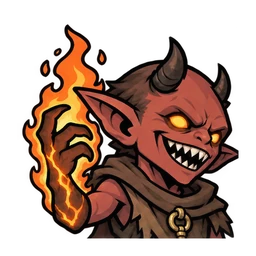
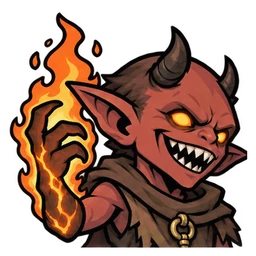
09-24 화면 · 구현 · 아트 — 건설 부지 3 × 5(네모 148 그대로) · 관리자 모드가 스테이지도 연다 · 1401 초상 아랫선 정렬
- 건설 부지 격자 3 × 5 = 15칸 · 네모 높이 148 · 줄 간격 9 · 상세 머리 그림 114 (SCREEN_DESIGN §13-1 · ADR-0355 — 0342 의 3 × 4 · 0354 의 줄 187 대체)
- 관리자 모드(Admin)가 스테이지도 전부 연다 — stageUnlocked 가 openAll 이면 참 · 클리어 기록 · 스테이지 레벨 상한 불변 (R155 · INTERFACE §2-7 · SCREEN_DESIGN §10-3 · 단정 확장)
- 몬스터 1401(화염 광신도) 초상 — 1402 와 아랫선 · 크기 정렬
- 검증: test.html FAIL 431/434 — 남은 셋(tip Alt 괄호 식 · 건설 문턱 해고 최고치 · golden 지문)은 이 커밋 전부터

diff --git a/src/ui/style.css b/src/ui/style.css
@@ -3358,10 +3358,10 @@ html[lang="en"] .ng-role { line-height: 1.2; }
 /* 부지 격자의 폭 = 왼쪽 열 − 64px — 반 폭 + 60px(네모가 반 폭 때보다 조금 넓다 · 사용자 「그림 가로를 살짝만」)과 같은 값이고 왼쪽에 붙어 남는 64px 가 상세와의 사이가 된다 */
 .cn-work > .cn-lots { width: calc(100% - 64px); justify-self: start; }
 /* 부지 — 건물 하나가 네모 하나 · **한 줄에 3개**(3열 · 폭은 열이 나눠 갖는다 · 2026-09-24 사용자 지시 · ADR-0326) · **높이는 139 고정** (2026-09-23 사용자 지시 「세로는 고정」).
-   **격자는 늘 3 × 4 = 12칸** — 빈 칸은 빈 부지(`.cn-lot.empty`)가 채우고, 높이 187 은 네 줄이 박스(한 장 기준 · 격자 세로 779)에 딱 들어가는 값이다
-   (2026-09-24 사용자 지시 「3x4로」 · ADR-0342 — ~~3 × 5 = 15칸~~ · ~~148~~ 은 영웅 띠가 위에 있던 때 · 띠를 걷으며 한 줄에 39 씩 늘었다 — ADR-0354). 건물이 12를 넘으면 줄이 늘고 격자가 스크롤한다 */
+   **격자는 늘 3 × 5 = 15칸** — 빈 칸은 빈 부지(`.cn-lot.empty`)가 채운다. **네모 높이 148 그대로 · 줄 간격 9** — 다섯 줄(148 × 5 + 9 × 4 = 776)이 격자 세로(한 장 기준 779)에 든다 ·
+   간격 10 이면 780 으로 1 이 넘쳐 스크롤이 생긴다 (2026-09-24 사용자 지시 「5칸으로 늘려서 세로 높이 기존처럼」 · ADR-0355 — ~~3 × 4 · 줄 187~~ ADR-0354). 건물이 15를 넘으면 줄이 늘고 격자가 스크롤한다 */
 .cn-lots {
-    display: grid; grid-template-columns: repeat(3, minmax(0, 1fr)); grid-auto-rows: 187px; align-content: start; gap: 10px;
+    display: grid; grid-template-columns: repeat(3, minmax(0, 1fr)); grid-auto-rows: 148px; align-content: start; gap: 9px 10px;
     overflow-y: auto; min-height: 0;
 }
 .cn-lot {
@@ -3405,9 +3405,9 @@ html[lang="en"] .ng-role { line-height: 1.2; }
     background: var(--bg-secondary); border: 1px solid var(--border-primary);
 }
 /* 머리 — 그림(부지와 같은 그림 · 3:2) · 이름 · 상태 한 줄(미건설 · n랭크 · 최대 랭크) · 눈금. 안 지었으면 그림이 어둡고 테두리가 점선.
-   **그림 높이 154 = 아래 두 소제목의 글자 윗선이 부지 둘째 줄 네모의 윗변(187 + 10)에 서는 값** (2026-09-24 사용자 지시 · 한 장 실측 · ~~96 × 64~~ · ~~106~~ 은 줄 139 · ~~104~~ 는 줄 137 · ~~115~~ 는 줄 148 때 — 줄이 늘면 같은 만큼 는다).
+   **그림 높이 114 = 아래 두 소제목의 글자 윗선이 부지 둘째 줄 네모의 윗변(148 + 9)에 서는 값** (2026-09-24 사용자 지시 · 한 장 실측 · ~~96 × 64~~ · ~~106~~ 은 줄 139 · ~~104~~ 는 줄 137 · ~~115~~ 는 줄 간격 10 · ~~154~~ 는 줄 187 때 — 둘째 줄 윗변이 움직인 만큼 같이 움직인다).
    머리 높이는 그림이 정한다 — 부지 네모 높이 · `.cn-side` 위 여백 · `.cn-head` 아래 여백 · `.sub-h` 위 여백이 바뀌면 다시 잰다 */
-.cn-head { flex: none; display: flex; align-items: center; gap: 14px; margin-bottom: 12px; --cn-thumb-h: 154px; }
+.cn-head { flex: none; display: flex; align-items: center; gap: 14px; margin-bottom: 12px; --cn-thumb-h: 114px; }
 .cn-thumb {
     flex: none; width: calc(var(--cn-thumb-h) * 1.5); height: var(--cn-thumb-h); display: flex; align-items: center; justify-content: center;
     background: var(--bg-tertiary) center 40% / cover no-repeat; border: 1px solid var(--border-secondary);

diff --git a/src/game_logic/state.js b/src/game_logic/state.js
@@ -94,7 +94,7 @@ export const SAVE_VERSION = 38;
  *   construction — 건설 시스템(`construction.js` · 표 넷을 든다 · INTERFACE §2-14 · R137)
  *   gamble — 도박장 슬롯(`gamble.js` · 표 넷을 든다 · 한 판을 굴린다 · INTERFACE §2-15 · R149)
  *   commission — 의뢰(`commission.js` · 표 넷을 든다 · 카드 한 장을 굴리고 처치 · 드롭을 대조한다 · INTERFACE §2-16 · R153)
- *   openAll — `() → bool` 선택 · **개발 장치**(관리자 모드) — 켜져 있으면 「무엇이 열렸나」가 모든 건물을 최대 랭크로 친다(`openRanks` · INTERFACE §2-7)
+ *   openAll — `() → bool` 선택 · **개발 장치**(관리자 모드) — 켜져 있으면 「무엇이 열렸나」가 모든 건물을 최대 랭크로 친다(`openRanks`) · 스테이지도 전부 열린다(`stageUnlocked` · INTERFACE §2-7)
  */
 export function createGameSystem(deps) {
     const { hero: H, item: I, battle: BT, skill: SK, tactic: TC, construction: CN, gamble: GB, commission: CM, balance: B } = deps;
@@ -197,7 +197,8 @@ export function createGameSystem(deps) {
      */
     /**
      * 「무엇이 열렸나」가 세는 랭크 — 세이브의 `buildings` · **`deps.openAll()` 이 켜져 있으면 모든 건물의 최대 랭크** [2026-09-24 · 개발 장치 — 관리자 모드 · INTERFACE §2-7].
-     *   세는 자리는 셋이다(`limitsOf` · `hasFeature` · `constructionState.tabs`). 짓기 쪽(건설 탭의 랭크 · 다음 랭크 · `construct`)은 안 거친다 — 실제 랭크를 본다
+     *   세는 자리는 셋이다(`limitsOf` · `hasFeature` · `constructionState.tabs`). 짓기 쪽(건설 탭의 랭크 · 다음 랭크 · `construct`)은 안 거친다 — 실제 랭크를 본다.
+     *   스테이지는 이 랭크가 아니라 `stageUnlocked` 가 `openAll()` 을 직접 본다(장 잠금 · 직전 클리어를 같이 건너뛴다)
      */
     const openAll = deps.openAll ?? (() => false);
     const maxRanks = Object.fromEntries(CN.list.map(b => [b.id, b.maxRank]));
@@ -1157,9 +1158,11 @@ export function createGameSystem(deps) {
     /** 그 장이 원정 랭크로 열렸나 — 보스를 깨도 다음 장은 저절로 안 열린다 (2026-09-24 · R152 · construction_draft §2) */
     const chapterOpen = (state, chapter) => chapter <= limitsOf(state).chapters;
 
-    /** 해금 = **그 장이 열렸고**(`chapterOpen`) 첫 스테이지이거나 직전 스테이지(순서 기준)를 클리어했다 */
+    /** 해금 = **그 장이 열렸고**(`chapterOpen`) 첫 스테이지이거나 직전 스테이지(순서 기준)를 클리어했다 ·
+     *  관리자 모드면 표의 모든 스테이지가 열린 척한다(클리어 기록은 안 쓴다 · 2026-09-24 · R155 · INTERFACE §2-7) */
     function stageUnlocked(state, stageId) {
         const i = deps.stageOrder.indexOf(stageId);
+        if (i >= 0 && openAll()) return true;
         if (i < 0 || !chapterOpen(state, deps.stages[stageId]?.chapter)) return false;
         return i === 0 || state.progress.cleared.includes(deps.stageOrder[i - 1]);
     }

diff --git a/src/ui/devadmin.js b/src/ui/devadmin.js
@@ -1,11 +1,12 @@
 /**
  * devadmin.js — 관리자 모드 `Admin` (**개발 장치** · 2026-09-24 사용자 지시 · SCREEN_DESIGN §10-3)
  *
- * 상단바 언어 버튼 오른쪽의 `Admin` — 켜 두면 건물 때문에 막힌 것(탭 · 기능 · 상한)이 전부 **열린 척한다.** **게임 기능이 아니다.**
+ * 상단바 언어 버튼 오른쪽의 `Admin` — 켜 두면 건물 때문에 막힌 것(탭 · 기능 · 상한)과 **스테이지가 전부 열린 척한다.** **게임 기능이 아니다.**
  *
  * 어떻게 동작하나 — 판정은 `game_logic` 이 한다. `data.js` 가 조립 때 `adminOn` 을 `createGameSystem({openAll})` 로 넘기고,
- *   「무엇이 열렸나」를 세는 셋(`limitsOf` · `hasFeature` · `constructionState.tabs`)이 이 값이 참이면 모든 건물을 최대 랭크로 친다(INTERFACE §2-7).
- *   **건물은 안 짓는다** — 세이브의 건물 랭크는 그대로라 끄면 원래 진행으로 돌아간다. 누르면 앱이 전체를 다시 그린다
+ *   「무엇이 열렸나」를 세는 셋(`limitsOf` · `hasFeature` · `constructionState.tabs`)이 이 값이 참이면 모든 건물을 최대 랭크로 친다 ·
+ *   `stageUnlocked` 는 모든 스테이지에 참이다(INTERFACE §2-7).
+ *   **건물은 안 짓고 클리어 기록도 안 쓴다** — 세이브는 그대로라 끄면 원래 진행으로 돌아간다. 누르면 앱이 전체를 다시 그린다
  *   (새로고침이 아니다 — 새로고침은 도는 원정을 끊는다). 켠 상태는 이 브라우저에만 남는다(localStorage).
  *
  * ⚠ 걷어내려면 이 파일과 `app.js` 의 import · 호출 두 줄, `data.js` 의 import · 주입 두 줄을 지운다.
@@ -27,7 +28,7 @@ export function mountAdmin(container, rerender) {
     const b = document.createElement('button');
     b.className = `btn sm da-b${on ? ' on' : ''}`;
     b.textContent = 'Admin';
-    b.title = 'Dev — every building counts as max rank (save unchanged)';
+    b.title = 'Dev — every building counts as max rank · every stage open (save unchanged)';
     b.onclick = () => { on = !on; write(on); rerender(); };
     container.appendChild(b);
 }

diff --git a/docs/client/INTERFACE.md b/docs/client/INTERFACE.md
@@ -493,7 +493,7 @@ strike(rng, a, d):
 
 `export const SAVE_VERSION = 38`  [v38 = **다부대** — `run`(단수) → `runs`(부대마다) · `reports[].preset` · `notice.runs` · 한 영웅은 한 편성에만 · 2026-09-23] **[v38 에서 또 끊었다 — 그 전 세이브는 열지 않는다 · §4 · 2026-09-23]** · ~~v37 = 건설(`buildings` · `research` · `progress.peakTotal` · R137 · 2026-09-22)~~
 
-`createGameSystem(deps)` — `deps`: `hero, item, battle, skill, tactic, construction(§2-14 · R137), gamble(§2-15 · R149), commission(§2-16 · R153), balance, equipSlots [{id, part}](착용 위치 8), stages(byId), stageOrder [id], monsters(byId), codex {levels:[cards_to_next], bonus:[%], statByNum:{stage_num: statKey}}`, **`sins [죄종 id]`** · **`searchStories`**(= `search_story.csv` 파싱 행) [신설 2026-09-09 — 수색]. **`makeRecipes`** `{part: {ore, timber, dust}}`(= `make_recipe.csv`) · **`mineNodes`** · **`logNodes`**(= `mine_node.csv` · `log_node.csv` 를 tier 순으로 편 행 `{id, tier, yieldId, …}`) [신설 2026-09-15 — 제작 · R96]. 레시피는 생성 때 검증한다 — **광석 · 목재 · 가루가 모두 1 이상**이 아니거나 없는 부위면 throw (보완재 · 원정 쪽 입력 — item_design §5-1 · §7-1). **`potions`** `[{id, kind, tier, ko, en, heal, craftGold, startOwned}]`(= `potion.csv` 행 순서 · ~~`craftable`~~ 2026-09-22 삭제 — 단계는 제련소 랭크가 연다 · R137) [신설 2026-09-15 — 물약 · R103]. 이 표도 생성 때 검증한다 — `id` 유일 · `kind` 는 `heal` 하나(모르는 종류는 멈춘다) · 같은 종류 안에서 `tier` 는 1 부터 연속 · `heal` 은 단계마다 커진다 · `craftGold ≥ 0` · **`startOwned` = 시작 개수**(0 이상 정수 — 2026-09-21 · R124 · 전엔 0/1 플래그) · 이름 ko/en 이 비지 않는다 — 어기면 throw. **`balance.party_preset_count`**(편성 수)는 1 이상 정수여야 한다 — 아니면 throw [2026-09-21 · R122]. **`openAll`** `() → bool`(선택 · 없으면 늘 꺼짐) [신설 2026-09-24 · **개발 장치** — SCREEN_DESIGN §10-3 관리자 모드] — 켜져 있으면 「무엇이 열렸나」를 세는 셋(`limitsOf` · `hasFeature` · `constructionState.tabs`)이 **모든 건물을 최대 랭크로 친다**. 세이브의 `buildings` 는 안 바뀌고, 짓기 쪽(`constructionState` 의 랭크 · `next` · `ranks` · `construct`)은 **실제 랭크**를 본다. 켜고 끄는 사이에 상태를 맞추지 않는다 — 칸 수를 읽는 자리가 읽을 때 상한에 맞춘다(`padSlots` · 불러오기).
+`createGameSystem(deps)` — `deps`: `hero, item, battle, skill, tactic, construction(§2-14 · R137), gamble(§2-15 · R149), commission(§2-16 · R153), balance, equipSlots [{id, part}](착용 위치 8), stages(byId), stageOrder [id], monsters(byId), codex {levels:[cards_to_next], bonus:[%], statByNum:{stage_num: statKey}}`, **`sins [죄종 id]`** · **`searchStories`**(= `search_story.csv` 파싱 행) [신설 2026-09-09 — 수색]. **`makeRecipes`** `{part: {ore, timber, dust}}`(= `make_recipe.csv`) · **`mineNodes`** · **`logNodes`**(= `mine_node.csv` · `log_node.csv` 를 tier 순으로 편 행 `{id, tier, yieldId, …}`) [신설 2026-09-15 — 제작 · R96]. 레시피는 생성 때 검증한다 — **광석 · 목재 · 가루가 모두 1 이상**이 아니거나 없는 부위면 throw (보완재 · 원정 쪽 입력 — item_design §5-1 · §7-1). **`potions`** `[{id, kind, tier, ko, en, heal, craftGold, startOwned}]`(= `potion.csv` 행 순서 · ~~`craftable`~~ 2026-09-22 삭제 — 단계는 제련소 랭크가 연다 · R137) [신설 2026-09-15 — 물약 · R103]. 이 표도 생성 때 검증한다 — `id` 유일 · `kind` 는 `heal` 하나(모르는 종류는 멈춘다) · 같은 종류 안에서 `tier` 는 1 부터 연속 · `heal` 은 단계마다 커진다 · `craftGold ≥ 0` · **`startOwned` = 시작 개수**(0 이상 정수 — 2026-09-21 · R124 · 전엔 0/1 플래그) · 이름 ko/en 이 비지 않는다 — 어기면 throw. **`balance.party_preset_count`**(편성 수)는 1 이상 정수여야 한다 — 아니면 throw [2026-09-21 · R122]. **`openAll`** `() → bool`(선택 · 없으면 늘 꺼짐) [신설 2026-09-24 · **개발 장치** — SCREEN_DESIGN §10-3 관리자 모드] — 켜져 있으면 「무엇이 열렸나」를 세는 셋(`limitsOf` · `hasFeature` · `constructionState.tabs`)이 **모든 건물을 최대 랭크로 친다** · **`stageUnlocked` 는 표의 모든 스테이지에 참**이다(장 잠금 · 직전 클리어를 안 따진다 — 그래서 `frontierChapter` 가 마지막 장이 된다 · 2026-09-24). 세이브의 `buildings` · `progress.cleared` 는 안 바뀌고(`stageLevelState` 의 상한은 클리어 기록 그대로), 짓기 쪽(`constructionState` 의 랭크 · `next` · `ranks` · `construct`)은 **실제 랭크**를 본다. 켜고 끄는 사이에 상태를 맞추지 않는다 — 칸 수를 읽는 자리가 읽을 때 상한에 맞춘다(`padSlots` · 불러오기).
 **만남 표도 같은 자리에서 검증한다** [신설 2026-09-09] — `searchMeetings`(`search_meeting.csv`) · `searchAnswers`(`search_answer.csv`)도 주입이고, `meeting_id`·`answer_id` 유일 · `sin`/`hit_sin` 이 죄종 · `need_sin` 이 `-` 또는 죄종 · 답이 가리키는 만남이 실재 · 문구 비지 않음 · **만남마다 공통(`-`) 답이 최소 하나**(없으면 그 죄종을 안 보낸 판에서 고를 것이 0개가 된다)를 어기면 throw.
 **컬럼 둘이 서로 다른 질문에 답한다** — `need_sin` = **누가 갔나**(그 답이 **보이는가**) · `hit_sin` = **누굴 만났나**(그 답이 **먹히는가**). 규칙은 이 둘이 전부다.
 
@@ -540,7 +540,7 @@ strike(rng, a, d):
 | **`swapPotionSlot(state, a, b)`** | `→ {ok}` / `{ok:false, err}` | **고른 편성의 물약 칸 둘을 맞바꾼다** [신설 2026-09-21 · R124] — **앞 칸부터 마시므로 순서가 결정이다**(빈 칸과도 바꾼다). err: `missing`(없는 칸). 같은 칸이면 `{ok:true}` · rng 0 |
 | ~~`returnToTown(state)`~~ | — | **2026-09-08 삭제** (R54). 「출정 아웃」이 없어져 **귀환이 회복할 것이 없다** — 회복은 런이 끝나는 순간 자동이고 상태에 남는 것이 없다. 호출하던 세 자리(반복 미이어짐 · 전멸 · `closeRun`)에서 함께 걷었다 |
 | ~~`activeParty(state, stageId)`~~ | — | **2026-09-08 삭제** (R54). 아웃이 런을 넘지 않으므로 **언제나 `state.party` 전원**이 나간다 — 뺄 명단이 없다 |
-| `stageUnlocked(state, stageId)` | `→ bool` | **그 장이 열렸고**(`chapterOpen`) 첫 스테이지이거나 직전 스테이지(순서 기준)를 클리어했다 — 보스를 깨도 다음 장은 원정 랭크가 열어야 들어간다 [2026-09-24 · R152 · construction_draft §2] |
+| `stageUnlocked(state, stageId)` | `→ bool` | **그 장이 열렸고**(`chapterOpen`) 첫 스테이지이거나 직전 스테이지(순서 기준)를 클리어했다 — 보스를 깨도 다음 장은 원정 랭크가 열어야 들어간다 [2026-09-24 · R152 · construction_draft §2] · **`openAll` 이 켜져 있으면 `stageOrder` 의 모든 스테이지에 참**(개발 장치 · 2026-09-24 · R155) |
 | **`chapterOpen(state, chapter)`** | `→ bool` | **그 장이 원정 랭크로 열렸나** — `chapter ≤ limitsOf(state).chapters` [신설 2026-09-24 · R152]. 잠긴 스테이지 행이 「원정 n랭크 필요」(`needOf('chapters', n)`)와 「이전 스테이지 클리어 필요」 중 무엇을 말할지 가른다 · rng 0 |
 | `stageLevelState(state, stageId)` | `→ {base, max, level}` / `null` | **스테이지 레벨** [신설 2026-09-14 · R87 · base_expedition_design §1-4] — **판정을 여기서 다 낸다.** `base` = `stage.csv:dlvl` · `max` = **클리어한 스테이지의 기본 레벨 중 최고**(키가 없다 — `progress.cleared` 에서 파생 · 아무것도 안 깼거나 그 스테이지가 더 높으면 `base`) · `level` = `base + progress.levelUp[stageId]` 를 `[base, max]` 로 자른 값. 올린 스테이지는 상한 이하라 **그걸 깨도 상한이 안 오른다** — 그래서 기본 레벨만 봐도 「클리어한 최고 레벨」이다. **처음부터 열려 있다**(2026-09-24 · R152 — 사용자 09-14 로 되돌림 · ~~원정 건물 랭크가 연다 — `open` 칸 · R137~~). 없는 스테이지면 `null` · rng 를 안 쓴다 |
 | `setStageLevel(state, stageId, level)` | `→ {ok, level}` / `{ok:false, err}` | err: `missing`(없는 스테이지) · ~~`unbuilt`~~(2026-09-24 · R152 — 처음부터 열림) · `range`(정수가 아니거나 `[base, max]` 밖). **올린 양을 적는다** — 기본 레벨로 돌리면 기록을 지운다(안 올린 스테이지는 적지 않는다). 비용 없음 · 되돌리기 자유 · rng 를 안 쓴다. 신설 2026-09-14 · R87 |

diff --git a/docs/client/adr/README.md b/docs/client/adr/README.md
@@ -67,13 +67,14 @@
 
 ## 인덱스
 
-**349건** — 살아 있는 결정 344 · 대체된 것 5. 번호는 **결정이 선 날 순**이다.
+**350건** — 살아 있는 결정 345 · 대체된 것 5. 번호는 **결정이 선 날 순**이다.
 
 > 이 표는 **ADR 파일들에서 생성한 파생 뷰**다 — 손으로 고치지 않는다. ADR 을 쓰거나 「대체됨」을 채운 뒤 `python docs/client/adr/_build_index.py` 를 돌린다.
 
 | 번호 | 제목 | 상태 | 화면 | 날짜 | 대체 관계 |
 |---|---|---|---|---|---|
-| 0354 | [건설에서 영웅을 뺀다 · 영웅 띠와 건설 인력 칸을 걷는다](0354-건설에서-영웅을-뺀다-영웅-띠와-건설-인력-칸을-걷는다.md) | 확정 | §13-1 | 2026-09-24 | [ADR-0342](0342-건설-탭-위에-영웅-띠가-서고-상세-위에-건설-인력-칸이-선다-부지는-3x4다.md) 의 **영웅 띠 · 띠 클릭 · 반투명**(부지 3 × 4 는 산다) · [ADR-0343](0343-건설-인력은-고른-건물-그림-오른쪽-한-칸이다-건물마다-한-명.md) 전부 · [ADR-0346](0346-건설-인력-칸은-제목-배지-가림선-없이-칸만-선다.md) 전부 를 대체 |
+| 0355 | [건설 부지는 3 × 5 다 · 네모 높이는 148 그대로다](0355-건설-부지는-3x5-다-네모-높이는-148-그대로다.md) | 확정 | §13-1 | 2026-09-24 | [ADR-0342](0342-건설-탭-위에-영웅-띠가-서고-상세-위에-건설-인력-칸이-선다-부지는-3x4다.md) 의 **부지 3 × 4** · [ADR-0354](0354-건설에서-영웅을-뺀다-영웅-띠와-건설-인력-칸을-걷는다.md) 의 **「걷힌 띠의 세로는 네 줄이 나눠 가진다」**(줄 187 · 그림 154) 를 대체 |
+| 0354 | [건설에서 영웅을 뺀다 · 영웅 띠와 건설 인력 칸을 걷는다](0354-건설에서-영웅을-뺀다-영웅-띠와-건설-인력-칸을-걷는다.md) | 확정 | §13-1 | 2026-09-24 | [ADR-0342](0342-건설-탭-위에-영웅-띠가-서고-상세-위에-건설-인력-칸이-선다-부지는-3x4다.md) 의 **영웅 띠 · 띠 클릭 · 반투명**(부지 3 × 4 는 산다) · [ADR-0343](0343-건설-인력은-고른-건물-그림-오른쪽-한-칸이다-건물마다-한-명.md) 전부 · [ADR-0346](0346-건설-인력-칸은-제목-배지-가림선-없이-칸만-선다.md) 전부 를 대체 · **[ADR-0355](0355-건설-부지는-3x5-다-네모-높이는-148-그대로다.md) — 걷힌 세로를 네 줄이 나눠 갖는 것(줄 187 · 그림 154)만 · 영웅을 뺀 것은 산다 (2026-09-24) 가 대체** |
 | 0353 | [원정 세그먼트는 모든 탭에 선다 · crumb 은 가장 긴 탭 이름만큼 자리를 잡는다](0353-원정-세그먼트는-모든-탭에-선다-crumb-은-가장-긴-탭-이름만큼-자리를-잡는다.md) | 확정 | §2 | 2026-09-24 | [ADR-0094](0094-원정-세그먼트는-상단바에-선다.md) 의 「상단바 탭 세그먼트 자리는 원정만 쓰고 다른 탭에서는 자리를 안 잡는다」 — 자리(crumb 바로 오른쪽)와 내용은 산다 를 대체 |
 | 0352 | [의뢰 카드는 받으면 제자리에서 진행 중이 되고 · 수령 · 포기가 그 자리를 새로 굴린다](0352-의뢰-카드는-받으면-제자리에서-진행-중이-되고-수령-포기가-그-자리를-새로-굴린다.md) | 확정 | §14 | 2026-09-24 | — |
 | 0351 | [건설 상세의 더하기는 「대상 +n」 이다 · 「증가」 를 안 붙인다](0351-건설-상세의-더하기는-대상-n-이다-증가를-안-붙인다.md) | 확정 | §13-1 | 2026-09-24 | [ADR-0329](0329-건설-상세의-더하기는-대상-n-증가다.md) 의 **「증가」 꼬리**만 — 더하기가 문장이 아니라 한 토막이라는 것 · 대상마다 한 키는 산다 를 대체 |
@@ -85,7 +86,7 @@
 | 0345 | [건설 탭의 진척 줄을 걷는다](0345-건설-탭의-진척-줄을-걷는다.md) | 확정 | §13-1 | 2026-09-24 | — *(ADR 이 아니던 규격 — §13-1 의 「진척 — 지은 랭크 n / 전체」 행)* 를 대체 |
 | 0344 | [브라우저 확대/축소 입력은 게임이 삼킨다 · Ctrl + 0 은 둔다](0344-브라우저-확대-축소-입력은-게임이-삼킨다-Ctrl-0-은-둔다.md) | 확정 | §2 | 2026-09-24 | — *([ADR-0087](0087-화면은-1600x800-한-장이다.md) · [ADR-0153](0153-한-장은-보이는-창에-맞춘다-브라우저-바가-덮은-자리를-뺀다.md) 을 뒤집지 않는다 — 한 장이 창을 채우는 방식은 그대로다)* 를 대체 |
 | 0343 | [건설 인력은 고른 건물 그림 오른쪽 한 칸이다 · 건물마다 한 명](0343-건설-인력은-고른-건물-그림-오른쪽-한-칸이다-건물마다-한-명.md) | 확정 | §13-1 | 2026-09-24 | [ADR-0342](0342-건설-탭-위에-영웅-띠가-서고-상세-위에-건설-인력-칸이-선다-부지는-3x4다.md)의 **건설 인력 판**(상세 위 한 줄 높이 판 · 칸 셋 · 탭에 한 벌) · 상세 머리의 「셋째 줄」 맞춤 — 맨 위 영웅 띠 · 부지 3 × 4 · 띠 클릭이 인력 넣고 빼기 · 반투명은 산다 를 대체 · **[ADR-0346](0346-건설-인력-칸은-제목-배지-가림선-없이-칸만-선다.md) — 칸 왼쪽 제목 · 미착수 배지 · 세로 가림선 (2026-09-24) · [ADR-0354](0354-건설에서-영웅을-뺀다-영웅-띠와-건설-인력-칸을-걷는다.md) — 남은 전부(자리 · 건물마다 한 명 · 띠 클릭) (2026-09-24) 가 대체** |
-| 0342 | [건설 탭 위에 영웅 띠가 서고 상세 위에 건설 인력 칸이 선다 · 부지는 3 × 4 다](0342-건설-탭-위에-영웅-띠가-서고-상세-위에-건설-인력-칸이-선다-부지는-3x4다.md) | 확정 | §13-1 | 2026-09-24 | — *(ADR 이 아니던 두 규격을 대체한다 — §13-1 의 「격자는 늘 3 × 5 = 15칸」 · 상세 머리의 「소제목 윗선 = 부지 둘째 줄 윗변」)* 를 대체 · **[ADR-0343](0343-건설-인력은-고른-건물-그림-오른쪽-한-칸이다-건물마다-한-명.md) — 건설 인력 판(자리 · 칸 셋 · 탭에 한 벌) · 「셋째 줄」 맞춤 (2026-09-24) · [ADR-0354](0354-건설에서-영웅을-뺀다-영웅-띠와-건설-인력-칸을-걷는다.md) — 영웅 띠 · 띠 클릭 · 반투명 (2026-09-24) · 부지 3 × 4 는 산다 가 대체** |
+| 0342 | [건설 탭 위에 영웅 띠가 서고 상세 위에 건설 인력 칸이 선다 · 부지는 3 × 4 다](0342-건설-탭-위에-영웅-띠가-서고-상세-위에-건설-인력-칸이-선다-부지는-3x4다.md) | 확정 | §13-1 | 2026-09-24 | — *(ADR 이 아니던 두 규격을 대체한다 — §13-1 의 「격자는 늘 3 × 5 = 15칸」 · 상세 머리의 「소제목 윗선 = 부지 둘째 줄 윗변」)* 를 대체 · **[ADR-0343](0343-건설-인력은-고른-건물-그림-오른쪽-한-칸이다-건물마다-한-명.md) — 건설 인력 판(자리 · 칸 셋 · 탭에 한 벌) · 「셋째 줄」 맞춤 (2026-09-24) · [ADR-0354](0354-건설에서-영웅을-뺀다-영웅-띠와-건설-인력-칸을-걷는다.md) — 영웅 띠 · 띠 클릭 · 반투명 (2026-09-24) · [ADR-0355](0355-건설-부지는-3x5-다-네모-높이는-148-그대로다.md) — 부지 3 × 4 (→ 3 × 5 · 2026-09-24) 가 대체** |
 | 0341 | [관전 화면의 보관 칸도 다음 눈금에 조작이 끝난 뒤 갈아 끼운다](0341-관전-화면의-보관-칸도-다음-눈금에-조작이-끝난-뒤-갈아-끼운다.md) | 확정 | §4 | 2026-09-24 | [ADR-0338](0338-관전-밖의-라운드-정산은-다음-눈금에-한-번-그리고-툴팁-드래그-중엔-미룬다.md) 의 파급 첫 줄(「관전 화면은 그대로다」) 를 대체 |
 | 0340 | [아이템 비교 툴팁의 VS 는 상자 없이 글자만이다](0340-아이템-비교-툴팁의-VS-는-상자-없이-글자만이다.md) | 확정 | §6 | 2026-09-24 | [ADR-0339](0339-아이템-비교-툴팁의-틈은-좁고-VS-는-두-장의-가장자리를-덮고-위에-선다.md) 의 **딱지**(배경 · 테두리가 있는 불투명 네모) — 글자만 남긴다. 「좁은 틈」 · 「두 장의 가장자리 위에 겹친다」 · 「카드 안 여백까지만 걸친다」는 산다 를 대체 |
 | 0339 | [아이템 비교 툴팁의 틈은 좁고 VS 는 두 장의 가장자리를 덮고 위에 선다](0339-아이템-비교-툴팁의-틈은-좁고-VS-는-두-장의-가장자리를-덮고-위에-선다.md) | 확정 | §6 | 2026-09-24 | [ADR-0337](0337-아이템-비교-툴팁은-이-아이템이-커서-쪽이고-두-장-사이에-VS-가-선다.md) 의 **틈 폭 · VS 자리** — 「VS 가 들어갈 만큼 띄운 틈 안에 VS 가 선다」 → 좁은 틈 · VS 는 그 위에 겹친다. 「이 아이템이 커서 쪽」 · 「두 장은 따로 선 상자」 · 「VS 는 원정의 글자」는 산다 를 대체 · **[ADR-0340](0340-아이템-비교-툴팁의-VS-는-상자-없이-글자만이다.md) — 딱지 → 글자만 (같은 날) 가 대체** |

diff --git a/docs/client/DEV_PLAN.md b/docs/client/DEV_PLAN.md
@@ -316,6 +316,7 @@
 | R152 | **원정 랭크 = 챕터 입구 · 골드만** [사용자 「원정 랭크 1~5 필요는 이전 챕터 완료 · 열리는 건 다음 챕터」 · 「원정은 돈만」] — `building_effect.csv` 원정 r1 ~ r5 = `chapters` +1(새 더하기 · 기본 0 · r1 은 원정 켜기도 그대로) · `building_rank.csv` 원정 r2 ~ r5 문턱 105 · 205 · 305 · 405 · 골드만(값은 옛 골드 그대로 ⚠제안) · 창고 r2 · r5 물약 칸 +1 · `stageUnlocked` 는 장이 열렸나(`chapterOpen` 신설)도 본다 · `repeat` · `stage_level` 어휘 삭제(처음부터 열림 — `stageLevelState.open` · `setStageLevel` 의 `unbuilt` 삭제) · `constructionState` 더하기에 `total`(누적) · 화면: 잠긴 장 행 「원정 n랭크 필요」 · 랭크 줄 「n장까지 연다」 · 위험도 · 반복 잠금 걷음 · ⚠ 창고 r5 는 r3 · r4(장비 세트 — 준비 중) 뒤라 **둘째 물약 칸은 장비 세트가 서기 전엔 못 연다** | 09-24 | ✅ 09-24 · `FAIL 421/424`(남은 셋은 기존 — 설명창 Alt 각주 · 건설 해고 문턱 · 골든) · 단정 +2 · 3곳 개정 · 해금 규칙을 걷으면 새 단정이 빨강 · 화면 ko · en 렌더 예외 0 | GAME_DESIGN §9 09-24 · construction_draft §2 · §3 · §6 · INTERFACE §2-7 · §2-14 · SCREEN_DESIGN §4 · §4-1 · §13-1 |
 | R153 | **의뢰가 실제로 돈다 — 게시판 무작위 굴림 · 의뢰 등급 일반 · 매직 · 레어 · 받기 · 세기 · [수령] · 포기 · 명성 보류** [사용자 「의뢰가 실제로 적용되도록」 · 「랜덤하게 모두가 나오도록」 · 「일반 · 매직 · 레어」] — 새 모듈 `game_logic/commission.js`(틀 · 종류 · 등급 · 종족 표 · `roll` 3회 · `matchKill` · `matchDrop`) · `state.commission*` 다섯 · `battle` 라운드 몫 `killGrades`(rng 0) · 세이브 `commissions` · `counters.commission`(버전 무변경) · 스트림 `0xC0DA` · `commission.csv` 가 게시판 행 → **틀** · 새 표 `commission_grade.csv` · `monster_type.csv` · 키 `commission_gold_chapter_mult` · 건설 `commission_board` · `commission_slots` 켬 · 화면 ADR-0352 · `?dev=commission` | 09-24 | ✅ 09-24 · 단정 +9 · FAIL 431/434(남은 3건 무관 — 설명창 Alt 각주 · 건설 해고 문턱 · 골든 지문) · ⚠ 수치 전부 제안 · 받고 포기 = 무료 리롤(GAME_DESIGN §10 「의뢰 세부」 ②) | GAME_DESIGN §9 09-24 · base_expedition_design §1-3 · INTERFACE §2-7 · §2-16 · SCREEN_DESIGN §14 |
 | R154 | **첫 단계는 켜기가 심는다 — 제련소 r1 = 장비 강화 · 장비 제작 · r2 = 물약 제작 · 제작 레벨 +1** [사용자 「제련소 1 이 열릴 때 기본적인 제작과 강화는 열리는 걸로」 · 「랭크 2 를 물약 제작, 제작 레벨 +1 로」] — `TARGETS.seed`(`make_level` ← `make` · `potion_tier` ← 새 켜기 `potion`) · `opened` · `reach` 가 센다 · `building_effect.csv` 제련소 r1 의 +1 두 줄 · r2 의 물약 단계 +1 · 강화 상한 +3 삭제(사용자가 나중에 다시 — 강화는 +6강 · 물약은 3단계까지) | 09-24 | ✅ 09-24 · 단정 +1 · 게이트 픽스처 값 2 → 1 · `potion` 켜기 | INTERFACE §2-14 · SCREEN_DESIGN §13-1 |
+| R155 | **관리자 모드가 스테이지도 전부 연다** [사용자 「admin 누르면 스테이지도 모두 오픈」 · 개발 장치] — `stageUnlocked` 가 `openAll()` 이면 `stageOrder` 전부 참(장 잠금 · 직전 클리어 무시 · 7장까지) · 진행 챕터가 따라간다 · 클리어 기록 · 스테이지 레벨 상한 불변 | 09-24 | ✅ 09-24 · R145 단정 확장(스테이지 1 → 35 · 끄면 돌아옴) · FAIL 431/434 — 셋은 무관(golden 지문 · tip Alt · 문턱 `peakTotal`) · ⚠ 게임 화면 눈 확인 못 함(로그인 관문) | INTERFACE §2-7 · SCREEN_DESIGN §10-3 |
 
 ---
 

diff --git a/src/ui/README.md b/src/ui/README.md
@@ -17,7 +17,7 @@
 | `mock.js` | 화면 전용 사전 — 죄종·희귀도 색 · 접사 **표기**(`AFFIX_LABELS` — ⚠ 19개 중 12개가 `combat_stat.csv` 와 이름·단위 중복이다. 08-31 에 `reflect_damage` 가 갈려 한 탭에서 다르게 찍히는 사고가 났다) · 페이퍼돌 배치(`PAPERDOLL`) · 마스터리 판 프레임(`MASTERY_GRID` — 티어 3 × 노드 3) · 자산 경로(`faceDir()`·`BG_DIR`·`stageBg`·`slotArt` — 미장착 칸의 부위 실루엣 · `itemArt` — 아이템 그림, ⚠ 방어구는 임시로 부위당 한 장) · **얼굴 아트 스타일 전환**(`FACE_STYLES`·`setFaceStyle`·`applyDocumentFace` — 폴더 하나 = 스타일 하나. 고른 스타일은 `<html data-face>` 로도 나간다 — CSS 가 **초상 축소 보간**을 가르는 신호다, 아래 「초상 보간」) · 액티브 표시 사전(`SKILL_DISPLAY` — 아이콘·설명만. 이름·쿨은 `skill.csv`). **직업·슬롯·아이템 베이스·접사 정의·영웅 이름/특성 풀은 2026-08-31 로 CSV 로 나갔다**(`class`·`equip_slot`·`item_base`·`affix`·`hero_name`·`hero_trait` → `data.js` 의 `D.classes`·`D.slots`/`D.equipSlots`·`D.itemBases`·`D.affixDefs`·`D.heroNamePool`·`D.heroTraitPool`). 이름 ko/en·얼굴 유무·기본 능력치 7·전투 능력치 25·도감 보정은 08-28 로 나갔다 — 헬퍼는 `data.js` (`monsterName`·`monsterFace`·`monsterSin`·`stageName`·`stageBgOf`·`chapterOf`·`eliteName`). **남은 게임 데이터는 죄종(`SINS`)·정예 특성(`SIN_TRAITS`·`COMMON_TRAITS`) 셋뿐** — 죄종 매핑 확정을 기다린다 |
 | `style.css` | 스타일 — **색 리터럴 0개**. 아래 「색 토큰」 |
 | `devpalette.js` | **개발 장치** — 상단바 `⚙` 의 색 피커 ([SCREEN_DESIGN §10-1](../../docs/client/SCREEN_DESIGN.md)). 게임 기능이 아니다: 이 파일과 `app.js` 의 import 한 줄을 지우면 사라진다 |
-| `devadmin.js` | **개발 장치** — 상단바 `Admin` 관리자 모드 ([SCREEN_DESIGN §10-3](../../docs/client/SCREEN_DESIGN.md)). 켜면 건물로 막힌 탭 · 기능 · 상한이 열린 척한다(판정은 `game_logic` 의 `openAll` 주입). 게임 기능이 아니다: 이 파일과 `app.js` · `data.js` 의 import · 호출을 지우면 사라진다 |
+| `devadmin.js` | **개발 장치** — 상단바 `Admin` 관리자 모드 ([SCREEN_DESIGN §10-3](../../docs/client/SCREEN_DESIGN.md)). 켜면 건물로 막힌 탭 · 기능 · 상한과 스테이지가 열린 척한다(판정은 `game_logic` 의 `openAll` 주입). 게임 기능이 아니다: 이 파일과 `app.js` · `data.js` 의 import · 호출을 지우면 사라진다 |
 
 - **공통 영웅 띠** (`app.js heroStrip`) — 캐릭터 탭 상단(스킬은 탭을 잃고 **창**이 됐고, 창은 띠를 다시 그리지 않는다 — SCREEN_DESIGN §7), 원정은 **출정 창 안 하나**(`departBody` — 스테이지를 골라야 열린다, `{flat:true}` 로 패널 껍데기를 벗는다 · 탭 최상단에 두던 판은 2026-09-10 에 걷었다 · ADR-0085). 건설 탭에는 띠가 없다(영웅을 안 쓴다 · ADR-0354). 창 안의 것만 `{deployed:true}` 라 파티 카드가 흐리다 — 흐림의 뜻이 「바로 아래 진형 보드에 내려가 있다」이기 때문이다(ADR-0058). 둘 다 같은 띠: 초상(`.hero-face` — 관전 유닛 카드와 같은 네모 박스 · 그림은 `mock.js heroFace` 가 **이름**으로 고르고 없으면 밑에 깔린 직업 글리프 `mock.js classGlyph` 가 드러난다, [SCREEN_DESIGN §5](../../docs/client/SCREEN_DESIGN.md))이 카드 전체, 그 위 위칸(`.hs-band`)에 지금 하는 일(출정 아웃 / 전투 파티 / 대기) + 이름. 직업·레벨·죄종·등급은 툴팁(캐릭터 탭 띠는 `{tip:false}` 라 안 뜬다 — 같은 값이 바로 아래 칸에 있다 · ADR-0116)
 

diff --git a/docs/client/SCREEN_DESIGN.md b/docs/client/SCREEN_DESIGN.md
@@ -1200,7 +1200,7 @@ URL 이 아니라 **버튼**이다. 언어 버튼 옆 `⚙` 를 누르면 판이
 
 ### 10-3. 관리자 모드 (`Admin`) — 상단바 언어 버튼 오른쪽
 
-`Admin` 한 버튼이 켜고 끈다. 켜 두면 **건물 때문에 막힌 것이 전부 열린 척한다** — 흐린 탭 · 기능(반복 원정 · 수색 · 상점 …) · 상한(물약 칸 · 전술 칸 · 제작 레벨 · 강화 단계 · 로스터 …)이 모든 건물을 최대 랭크로 친 값이 된다. **건물은 안 짓는다** — 세이브의 건물 랭크는 그대로라 끄면 원래 진행으로 돌아간다.
+`Admin` 한 버튼이 켜고 끈다. 켜 두면 **건물 때문에 막힌 것이 전부 열린 척한다** — 흐린 탭 · 기능(반복 원정 · 수색 · 상점 …) · 상한(물약 칸 · 전술 칸 · 제작 레벨 · 강화 단계 · 로스터 …)이 모든 건물을 최대 랭크로 친 값이 된다. **스테이지도 전부 열린다** — 장 잠금과 직전 스테이지 클리어를 안 따진다(표의 마지막 장까지). **건물은 안 짓고 클리어 기록도 안 쓴다** — 세이브는 그대로라 끄면 원래 진행으로 돌아간다.
 
 | 보여준다 | 결정 | 규칙 |
 |---|---|---|
@@ -1209,7 +1209,8 @@ URL 이 아니라 **버튼**이다. 언어 버튼 옆 `⚙` 를 누르면 판이
 - **건설 탭은 실제 랭크를 그린다** — 지은 것 · 다음 랭크 · 조건 · 비용 · [건설] 은 켜 둬도 그대로다. 열린 척하는 것은 기능 쪽뿐이다
 - **「준비 중」 기능은 열려도 빈다** — 그 기능이 아직 없다(§11)
 - **켠 동안 한 일은 남는다** — 산 것 · 강화 · 고용은 진짜다. 늘어난 칸에 넣은 구성(물약 칸 등)은 끄면 칸 수만큼 잘려 읽힌다
-- 스테이지 해금 순서 · 골드처럼 **건물과 무관한 제한은 안 푼다**
+- **스테이지가 열리면 따라 움직이는 것** — 진행 챕터(상단 · 도박장 판돈 · 의뢰 대상)가 가장 뒤의 열린 장이 된다. 스테이지 레벨의 상한은 클리어 기록 그대로다
+- 골드 · 재료처럼 **건물 · 스테이지와 무관한 제한은 안 푼다**
 - 판정은 `game_logic` 의 `openAll` 주입 하나다(INTERFACE §2-7) — 렌더러는 스위치 값만 넘긴다
 
 ⚠ **게임 기능이 아니다.** 구현은 `src/ui/devadmin.js` 한 파일이고, 걷어내려면 그 파일과 `app.js` 의 import · 호출 두 줄, `data.js` 의 import · 주입 두 줄을 지운다.

diff --git a/src/assets/art/faces/cartoon/README.md b/src/assets/art/faces/cartoon/README.md
@@ -34,7 +34,7 @@
 | 1303 | 스켈레톤 마법사 [09-21 신설 — 옛 기사] | `skeleton_hood_lantern_mage` | ◎ **제 그림** [09-21 새 시트] 해진 후드 + 고리에 건 등불. **3/4 로 돌린 머리** — 눈 사이가 89 로 짧게 잡혀 배율은 눈 사이가 아니라 두개골 크기로 맞췄다(k 1.102) · 격자선이 번진 타일 네 변 6px 는 `align_faces.CLEAR` 로 지운다 |
 | 1303**_elite** | 〃 정예 | `skeleton_hood_lantern_mage_elite` | ◎ **제 그림** [09-21] 같은 후드·등불 · 뼈 목걸이 · 드러난 이. 기본판과 같은 ex/ey/k |
 | 1350 | 둘라한 (스테이지 보스) | `dullahan_skull_in_hand` | ◎ **제 그림** [09-17 새 시트] 목 없는 판금 기사가 **제 두개골을 손에 들었다** — 빈 목깃 위로 척추가 솟는다. 얼굴 정렬 k 1.25 · ⚠ **두개골을 왼쪽(눈 중점 x 225)에 앉혔다** — 세트 기준(x ≈ 303)에 맞추면 빈 목이 원 밖으로 나가 둘라한으로 안 읽힌다 |
-| 1401 | 화염 광신도 | `flame_zealot` | ◎ **제 그림** [09-24 교체] `../source/sheets/source_sheet_ch1_st4_flame_zealot_refinement_v2.png`의 좌상 1번. 원래 임프의 뿔·귀·표정·불타는 팔을 유지한 크기 조정안. 443×443 타일을 512×512 투명 캔버스 가운데에 앉혔다 |
+| 1401 | 화염 광신도 | `flame_zealot` | ◎ **제 그림** [09-24 교체·아랫선 정렬] `../source/sheets/source_sheet_ch1_st4_flame_zealot_refinement_v2.png`의 좌상 1번. 원래 임프의 뿔·귀·표정·불타는 팔을 유지한 크기 조정안. 443×443 타일을 512×512 캔버스에 앉힌 뒤, `1402`와 아랫선·전체 크기를 맞추도록 1.098배 확대했다 |
 | 1402 | 임프 제사장 | `source_sheet_ch1_st4_imp_priest_8` 1번 | ◎ **제 그림** [09-24 교체] 화염 광신도와 같은 긴 귀·짧은 뿔·붉은 살결의 임프. 검은 두건과 청동 기도 구슬. 가로형 8종 시트의 좌상 칸을 512×512 원본으로 확대하고 256×256 WebP로 내보냈다. 이전 초상은 `source/_scratch/imp_priest_1402_previous.*`에 보관 |
 | 1403 | 청동 수호상 | `bronze_guardian` | ◎ **제 그림** [09-24 같은 시트 좌하] 청동 가고일 신전 문지기 · 창 · 불꽃이 비치는 갑옷 틈 |
 | 1450 | **몰록** (스테이지 보스) | `moloch` | ◎ **제 그림** [09-24 같은 시트 우하] 황소 뿔 · 갈라진 청동 갑옷 · 가슴의 화로 불꽃 |

diff --git a/docs/client/SCREEN_CHANGELOG.md b/docs/client/SCREEN_CHANGELOG.md
@@ -14,6 +14,8 @@
 
 ## 이력
 
+- **2026-09-24** — **§10-3 관리자 모드가 스테이지도 전부 연다** [사용자 「admin 누르면 스테이지도 모두 오픈」] — 장 잠금 · 직전 클리어를 안 따진다(마지막 장까지) · 진행 챕터가 따라간다 · 클리어 기록 · 스테이지 레벨 상한은 그대로 · 「스테이지 해금 순서는 안 푼다」 줄 걷음
+- **2026-09-24** — **§13-1 건설 부지 3 × 5 · 네모 148 그대로** [사용자 「5칸으로 늘려서 세로 높이 기존처럼」] — 빈 부지 5 · 줄 간격만 9(다섯 줄이 779 에 든다) · 머리 그림 114 · ADR-0355(0342 의 3 × 4 · 0354 의 줄 187 대체)
 - **2026-09-24** — **§13-1 건설에서 영웅을 뺀다** [사용자 「영웅이 들어가고 건설에 시간이 발생하면 악영향」] — 영웅 띠 · 건설 인력 칸 걷음 · 짓기는 즉시 그대로 · 부지 줄 148 → 187 · 머리 그림 115 → 154 · `&crew=` → `&bld=` · §5 띠 자리 다시 둘 · ADR-0354(0342 띠 · 0343 · 0346 대체)
 - **2026-09-24** — **§2 상단바 · §4 원정 세그먼트가 모든 탭에 선다** [사용자 「다른 걸 하다가도 알 수 있게」] — 원정 밖에선 고른 칸이 없고 누르면 원정 탭의 그 화면으로 · crumb 은 가장 긴 탭 이름만큼 자리를 잡아 세그먼트가 안 움직인다 ([ADR-0353](adr/0353-원정-세그먼트는-모든-탭에-선다-crumb-은-가장-긴-탭-이름만큼-자리를-잡는다.md) · 0094 일부 대체)
 - **2026-09-24** — **§14 의뢰 게시판 실동작 · §8-1 · §11** [사용자 「의뢰가 실제로 적용되도록」] — 받은 카드는 제자리에서 진행 중(막대 · 센 수 / 목표 · [수령] · [포기] 두 번) · 의뢰 등급 칩(일반 · 매직 · 레어) · 제목에 받은 수 / 받을 수 · 명성 · 「미착수」 배지를 걷었다 · 목표 틀 `cm.goal.*` ([ADR-0352](adr/0352-의뢰-카드는-받으면-제자리에서-진행-중이-되고-수령-포기가-그-자리를-새로-굴린다.md))

diff --git a/src/assets/art/faces/source/README.md b/src/assets/art/faces/source/README.md
@@ -53,6 +53,8 @@ python scripts/export_face_portraits.py
 
 `sheets/source_sheet_ch1_st4_flame_zealot_refinement_v2.png` 는 4×2 비교 시트다. 사용자가 고른 **두 번째 시안의 좌상 1번**을 443×443으로 잘라 512×512 투명 캔버스 가운데에 배치했다. `monster/flame_zealot.png` 가 원본 선택본이고 `ready/monster/1401.png` 가 내보내기용 작업 원본, `../cartoon/monster/1401.webp` 가 게임용 사본이다. 기존 `source_sheet_ch1_st4_sd.png` 는 첫 스테이지 4 시트로 보존한다.
 
+**[09-24 아랫선 정렬]** 새 임프 제사장 `1402`와 나란히 놓았을 때 `1401`의 알파 영역은 y=48~476으로, `1402`(y=24~494)보다 작고 아래가 18px 떠 있었다. 기존 그림 전체를 **1.098배** 확대하고 가운데에 놓아 알파 영역을 대략 y=24~494에 맞췄다. 선택본 `monster/flame_zealot.png`는 그대로 보존하고 `ready/monster/1401.png`와 게임용 WebP만 갱신했다. 이전 게임 원본과 WebP는 `source/_scratch/flame_zealot_1401_before_align.*`에 보관했다.
+
 ## 몬스터 — Gem 레비아탄 (`source_sheet_leviathan.png`) [2026-09-14]
 
 `monster.csv:2900`(레비아탄 · 챕터 2 챕터 보스 · `size_type = 3`)의 첫 아트이자 **챕터 2 의 첫 초상**이다 — 그림을 넣으면서 `face` 를 0 → 1 로 올렸다.
